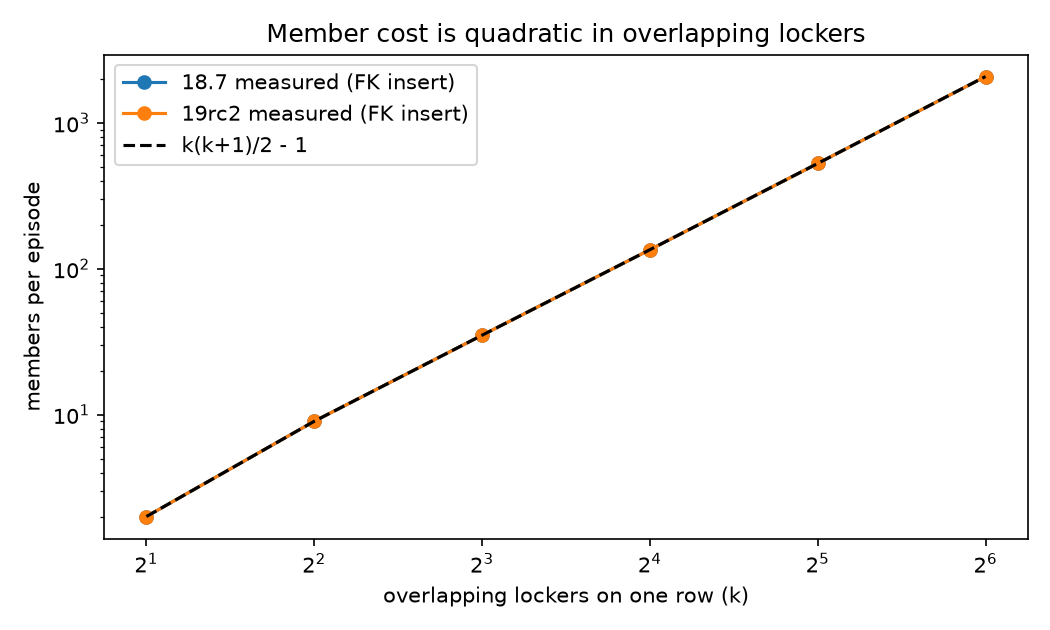
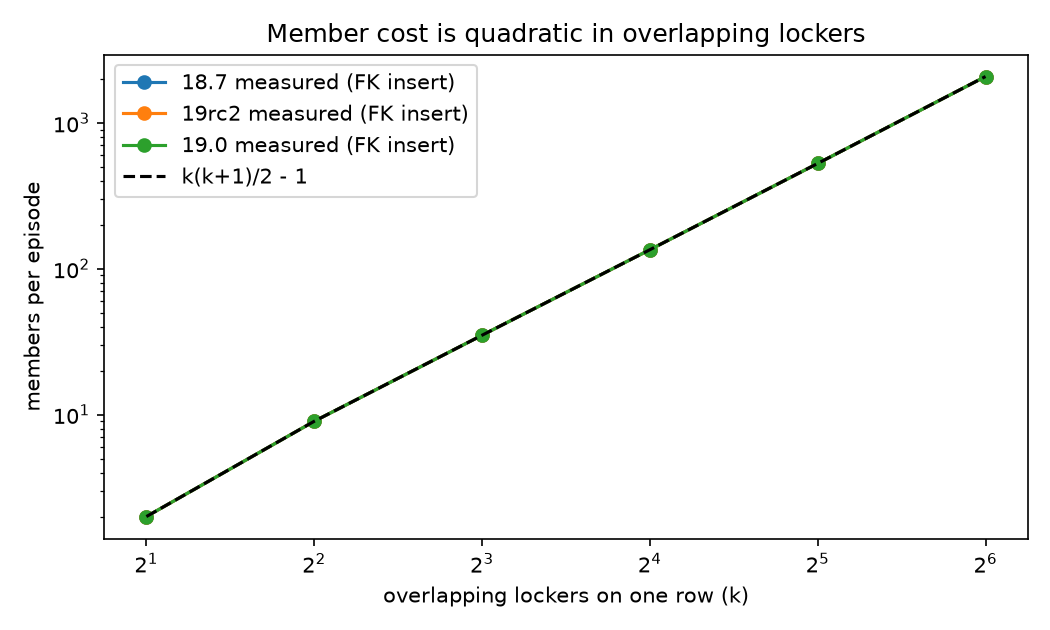
PostgreSQL 19.0 GA rerun: G1, R, L, U on 19.0 (matches 19 RC2), flagged + rerun paused R cells, bzip2-less extraction fallback, README names 19.0 as main version

diff --git a/scripts/analyze.py b/scripts/analyze.py
@@ -13,7 +13,7 @@ if g1:
         rs = g[k]; out.append(f"| {k[0]} | {k[1]} | {k[2]} | {sorted({r['d_multi'] for r in rs})} | {sorted({r['d_members'] for r in rs})} | {rs[0]['expect_members']} | {rs[0]['members_bytes']} | {rs[0]['offsets_bytes']} |")
     fig, ax = plt.subplots(figsize=(7,4.2))
     ks = [2,4,8,16,32,64]
-    for v, m in [("18.7","fk_insert"),("19rc2","fk_insert")]:
+    for v, m in [(v, "fk_insert") for v in ["18.7","19rc2","19.0"] if (v,"fk_insert",2) in g]:
         ax.plot(ks, [st.median(r["d_members"]/r["episodes"] for r in g[(v,m,k)]) for k in ks], "o-", label=f"{v} measured (FK insert)")
     ax.plot(ks, [k*(k+1)/2-1 for k in ks], "k--", label="k(k+1)/2 - 1")
     ax.set_xscale("log", base=2); ax.set_yscale("log"); ax.set_xlabel("overlapping lockers on one row (k)"); ax.set_ylabel("members per episode")
@@ -39,7 +39,22 @@ if rr:
     for k in sorted(g):
         rs = g[k]; f = lambda s, key: sorted({(r[s][key]//1024 if key=="members_bytes" else r[s][key]) for r in rs if s in r})
         out.append(f"| {k[0]} | {k[1]} | {f('peak','members_bytes')} | {f('after','members_bytes')} | {f('after','oldest_multi')} | {sorted({r['after']['datminmxid']['template0'] for r in rs})} | {f('released','members_bytes')} | {f('released','oldest_multi')} |")
-for name in ["l_limit.jsonl", "x_crossdb.jsonl", "m_mitig.jsonl"]:
+ll = L("l_limit.jsonl")
+if ll:
+    out.append("\n## L members limit (fast-forward to 4,274,017,280; k=64)\n| cell | outcome | members after ff | next offset | members-warnings | writes back after unpin (s) |\n|---|---|---|---|---|---|")
+    for r in ll:
+        evs = {e["ev"]: e for e in r["events"]}
+        oc = "ERROR members limit" if "error" in evs else ("no error" if "no_error" in evs else "?")
+        wb = evs["autovac_wait"]["secs"] if "autovac_wait" in evs else ""
+        out.append(f"| {r['cell']} | {oc} | {r['members_after_ff']} | {r['end']['next_offset']} | {r['log_members_warn_count']} | {wb} |")
+for uf, label in [("u_upgrade.jsonl", "18.7 -> 19rc2"), ("u_upgrade_19_0.jsonl", "18.7 -> 19.0")]:
+    uu = L(uf)
+    if uu:
+        out.append(f"\n## U pg_upgrade {label} (k=64)\n| cell | rc | secs | members before | members after | members bytes before | after | offsets bytes before | after | rows |\n|---|---|---|---|---|---|---|---|---|---|")
+        for r in uu:
+            o, n = r.get("old", {}), r.get("new", {})
+            out.append(f"| {r['cell']} | {r['upgrade_rc']} | {r['upgrade_secs']:.2f} | {o.get('next_offset',0)-1} | {n.get('next_offset',0)-1} | {o.get('members_bytes')} | {n.get('members_bytes')} | {o.get('offsets_bytes')} | {n.get('offsets_bytes')} | {r.get('rows')} |")
+for name in ["x_crossdb.jsonl", "m_mitig.jsonl"]:
     rows = L(name)
     if rows: out.append(f"\n## {name}: {len(rows)} records (see analyze section)")
 open(os.path.join(R, "summary.md"), "w").write("\n".join(out) + "\n"); print("\n".join(out))
@@ -50,12 +65,13 @@ rr = L("r_reclaim.jsonl")
 if rr:
     arms = ["none","vacuum_plain_app","vacuum_freeze_app","vacuumdb_all_freeze","vacuumdb_all_freeze_blocked","autovac","autovac_blocked"]
     labels = ["nothing","VACUUM","VACUUM (FREEZE)","vacuumdb --all\n--freeze","vacuumdb + idle\nlocker","autovacuum","autovacuum +\nidle locker"]
-    fig, ax = plt.subplots(figsize=(9,4.2)); w = 0.38
-    for i, v in enumerate(["18.7","19rc2"]):
+    VS = [v for v in ["18.7","19rc2","19.0"] if any(r["v"]==v for r in rr)]
+    fig, ax = plt.subplots(figsize=(9,4.2)); w = 0.8/len(VS)
+    for i, v in enumerate(VS):
         vals = [st.median(r["after"]["members_bytes"]/1e6 for r in rr if r["arm"]==a and r["v"]==v) for a in arms]
-        ax.bar(np.arange(len(arms)) + (i-0.5)*w, vals, w, label=v)
+        ax.bar(np.arange(len(arms)) + (i-(len(VS)-1)/2)*w, vals, w, label=v)
     ax.set_xticks(range(len(arms))); ax.set_xticklabels(labels, fontsize=8); ax.set_ylabel("pg_multixact/members after (MB, 10^6 B)")
-    ax.set_title("Only autovacuum kept member space small; nothing freed it while a locker was idle"); ax.legend(); fig.tight_layout(); fig.savefig(f"{C}/r_reclaim.png", dpi=150)
+    ax.set_title("Only autovacuum kept member space small; nothing freed it while a locker was idle"); ax.set_ylim(0, 13); ax.legend(loc="upper center", ncol=len(VS)); fig.tight_layout(); fig.savefig(f"{C}/r_reclaim.png", dpi=150)
 xd = L("x_crossdb.jsonl")
 if xd:
     arms = ["control","other_db_locker","other_db_xid_only","other_db_rr_snapshot","other_db_locker_iits10s"]
@@ -82,3 +98,11 @@ if mm:
             rs = [r for r in mm if r["arm"]==a and r["v"]==v]; m = [r["members_per_row"] for r in rs]
             out2.append(f"| {a} | {v} | {st.median(m):.2f} [{min(m):.2f}-{max(m):.2f}] | {round(st.median(r['rows_per_s'] for r in rs))} | {round(st.median(r['members_per_s'] for r in rs))} |")
     open(os.path.join(R, "summary.md"), "a").write("\n".join(out2) + "\n")
+rr19 = L("controls/r19_rerun.jsonl")
+if rr19:
+    n = ["\n## Notes on 19.0 R cells",
+         "- r-19.0-autovac-r3 and r-19.0-autovac_blocked-r1: poll trace has a 462 s / 425 s gap (box suspended mid-poll). Kept in r_reclaim.jsonl, flagged; end states match siblings.",
+         "- Reruns (results/controls/r19_rerun.jsonl, max poll gap 2.1 s):"]
+    for r in rr19:
+        n.append(f"  - {r['cell']}: after members_bytes {r['after']['members_bytes']}, oldestMultiXid {r['after']['oldest_multi']}, released {r.get('released', {}).get('members_bytes', '-')}, wait {r.get('wait_secs', 0):.1f} s")
+    open(os.path.join(R, "summary.md"), "a").write("\n".join(n) + "\n")

diff --git a/scripts/rerun_r19.py b/scripts/rerun_r19.py
@@ -1,0 +1,18 @@
+"""Rerun of the two 19.0 reclamation cells whose poll trace had a box-suspension gap
+(r-19.0-autovac-r3: 462 s gap; r-19.0-autovac_blocked-r1: 425 s gap). Original lines are kept
+in results/r_reclaim.jsonl and flagged; reruns go to results/controls/r19_rerun.jsonl."""
+import sys, json, os, time
+sys.argv = [sys.argv[0], "19.0"]
+sys.path.insert(0, os.path.dirname(os.path.abspath(__file__)))
+import grid_reclaim as g
+from lab import ROOT
+OUT = os.path.join(ROOT, "results", "controls", "r19_rerun.jsonl")
+for arm, rep in [("autovac", 3), ("autovac_blocked", 1)]:
+    up0 = float(open("/proc/uptime").read().split()[0]); t0 = time.time()
+    rec = g.run_cell("19.0", arm, rep, -1)
+    up1 = float(open("/proc/uptime").read().split()[0]); wall = time.time() - t0
+    rec["cell"] += "-rerun"; rec["wall_secs"] = wall; rec["uptime_secs"] = up1 - up0
+    tr = rec.get("trace", []) + rec.get("release_trace", [])
+    rec["max_poll_gap"] = max([b["dt"] - a["dt"] for a, b in zip(tr, tr[1:])] or [0])
+    open(OUT, "a").write(json.dumps(rec) + "\n")
+    print(rec["cell"], rec["after"]["oldest_multi"], rec["after"]["members_bytes"], rec.get("released", {}).get("members_bytes"), round(rec.get("wait_secs", 0), 1), round(rec.get("release_wait_secs", 0) or 0, 1), "maxgap", rec["max_poll_gap"], flush=True)

diff --git a/README.md b/README.md
@@ -1,8 +1,10 @@
 # pg-multixact-lab
 
 Reproducible lab for **PostgreSQL MultiXact member space**: how fast it grows under shared row locks,
-what does and does not reclaim it, and what changes between **PostgreSQL 18.7** and **19 RC2**
+what does and does not reclaim it, and what changes between **PostgreSQL 18.7** and **PostgreSQL 19.0**
 (64-bit member offsets, `pg_get_multixact_stats()`, `pg_upgrade` rewrite of `pg_multixact`).
+19.0 is the main version: it was built from the GA tarball on release day (2026-11-19) and reran G1, R, L and U.
+**19 RC2** ran every grid and is the cross-check; 19.0 reproduced every RC2 count it reran exactly.
 
 Motivation: the [Metronome RCA (May 2025)](https://metronome.com/blog/root-cause-analysis-postgresql-multixact-member-exhaustion-incidents-may-2025),
 where an Aurora PostgreSQL 13.18 cluster ran out of member space while far below its MultiXact ID threshold.
@@ -13,14 +15,14 @@ All numbers come from one VM. Design, seeds, deviations and the full run log are
 
 | grid | script | question | runs |
 |---|---|---|---|
-| G1 | `grid_growth.py g1` | members per episode vs overlapping lockers k (theory: k-1 MultiXacts, k(k+1)/2-1 members) | 72 |
+| G1 | `grid_growth.py g1` | members per episode vs overlapping lockers k (theory: k-1 MultiXacts, k(k+1)/2-1 members) | 72 + 36 on 19.0 |
 | G2 | `grid_growth.py g2` | members per committed FK insert under pgbench concurrency (clients x hot rows x pause in txn) | 72 |
-| R | `grid_reclaim.py` | what frees member space: VACUUM, VACUUM FREEZE, vacuumdb --all --freeze, autovacuum, with/without an idle locker | 42 |
-| L | `limit_ff.py` | 18.7 vs 19 RC2 at the 2^32 member-offset stop (fast-forwarded, see below) | 6 |
+| R | `grid_reclaim.py` | what frees member space: VACUUM, VACUUM FREEZE, vacuumdb --all --freeze, autovacuum, with/without an idle locker | 42 + 21 on 19.0 |
+| L | `limit_ff.py` | 18.7 vs 19 at the 2^32 member-offset stop (fast-forwarded, see below) | 6 + 3 on 19.0 |
 | X | `grid_crossdb.py` | does a session in ANOTHER database pin reclamation (row lock, xid only, RR snapshot, timeout) | 30 |
 | M | `grid_mitig.py` | mitigations: pool cap, no pause, batching, spreading hot keys | 30 |
-| U | `upgrade_rewrite.py` | `pg_upgrade --link` 18.7 -> 19 RC2: member compaction and timing | 9 |
-| controls | `controls.py` | 18->18 and empty upgrade baselines, amcheck after upgrade, undistorted limit test, fsync-on G2 subset, rerun of a void cell | 21 |
+| U | `upgrade_rewrite.py` | `pg_upgrade --link` 18.7 -> 19 RC2 and 18.7 -> 19.0: member compaction and timing | 9 + 3 on 19.0 |
+| controls | `controls.py` | 18->18 and empty upgrade baselines, amcheck after upgrade, undistorted limit test, fsync-on G2 subset, rerun of a void cell, rerun of 2 suspended 19.0 R cells | 23 |
 
 Results summary: [results/summary.md](results/summary.md). Charts: [charts/](charts/).
 
@@ -32,17 +34,19 @@ No Docker, no root. PostgreSQL built from official tarballs, sha256 verified aga
 |---|---|
[3 lines of base64/hex data omitted]
 
 ```sh
 scripts/build_pg.sh 18.7      # -> install/pg-18.7
+scripts/build_pg.sh 19.0      # -> install/pg-19.0
 scripts/build_pg.sh 19rc2     # -> install/pg-19rc2
 # configure --without-readline --without-zlib --without-icu --without-zstd --without-lz4
 # make world-bin && make install-world-bin   (includes contrib/amcheck)
 ```
 
 The study box had no m4/make/bison/flex; they were built from GNU/flex tarballs with GPG signatures checked
-([provenance/](provenance/)). PostgreSQL 19.0 was tagged (`REL_19_0`) but not yet released as a tarball when
-these runs were made; `scripts/run_19_0.sh` builds 19.0 and reruns a subset once it is on ftp.postgresql.org.
+([provenance/](provenance/)). `scripts/run_19_0.sh` downloads, verifies and builds 19.0 and reruns G1, R, L and U on it.
+If the `bzip2` binary is missing, both build scripts extract the tarball with Python's bz2 module instead.
 
 Python 3 venv in `install/venv`:
 
@@ -67,11 +71,24 @@ $P scripts/limit_ff.py 18.7,19rc2 3              # L    (fixed order)
 $P scripts/grid_crossdb.py 18.7,19rc2 3          # X    (seed 20261131)
 $P scripts/grid_mitig.py 18.7,19rc2              # M    (seed 20261141)
 $P scripts/upgrade_rewrite.py                    # U    (env: NEWV=19rc2 UOUT=u_upgrade.jsonl USIZES=1000,10000,30000 UREPS=3)
+scripts/run_19_0.sh                              # 19.0: build + G1, R, L, U (U: NEWV=19.0 UOUT=u_upgrade_19_0.jsonl USIZES=10000)
+$P scripts/rerun_r19.py                          # reruns 2 R cells on 19.0 that were hit by a VM pause
 $P scripts/controls.py uc1 uc0 uc2 lc1 g2r g2f   # controls (G2-F seed 20261151; load gate)
 $P scripts/analyze.py                            # results/summary.md + charts/
 ```
 
 `chain2.sh`, `chain3.sh`, `chain_controls.sh` are the detached chains used in the study (they also call `backup.sh`).
+
+## 19.0 vs 19 RC2 at a glance
+
+| test | 19.0 | 19 RC2 |
+|---|---|---|
+| G1 k=64, 1,000 episodes | 63,000 MultiXacts, 2,079,000 members, members 10,412,032 B, offsets 507,904 B | identical |
+| R (k=32 x 4,000) | VACUUM / VACUUM (FREEZE) / vacuumdb --all --freeze: 10.6 MB left, oldestMultiXid 1; autovacuum: 0.86 MB | identical |
+| L members limit | no error, next offset 4,319,755,280 (past 2^32), 3/3 | identical (18.7: ERROR after 20,897,624 members) |
+| U 18.7 -> 19, 10,000 episodes | 20,790,000 -> 630,000 members, 104 MB -> 3.2 MB, 1.86-1.97 s | same counts and bytes, 1.67-1.77 s |
+
+The upgrade and limit-test wall times differ; those runs were not load-gated on a shared box, so they are not a version comparison.
 
 ## Box and caveats
 
@@ -88,6 +105,8 @@ $P scripts/analyze.py                            # results/summary.md + charts/
   dropped table) and is the evidence for vacuum behaviour under a pin.
 - **Load/suspension rule:** applied to the control runs only (load1 < 2 before each run, void + rerun if wall clock and uptime
   differ by > 5%). One earlier G2 cell is void; see `results/void_cells.json`.
+- **VM pauses:** the box is paused when idle. Two 19.0 R cells had a pause inside their poll window; they are flagged in
+  `results/void_cells.json` and rerun in `results/controls/r19_rerun.jsonl` (same outcome).
 - **VM reset:** the box was reset once during the study; `r_reclaim.jsonl` was restored from a checksummed backup taken
   before the reset and one limit attempt was discarded. Timeline in PROTOCOL.md.
 - **Redaction:** absolute paths in results are replaced by `$LAB` and the host name by `<host>`. Nothing else was changed.
@@ -97,7 +116,8 @@ $P scripts/analyze.py                            # results/summary.md + charts/
 ```
 results/
   g1_hotrow.jsonl g2_churn.jsonl r_reclaim.jsonl l_limit.jsonl x_crossdb.jsonl m_mitig.jsonl u_upgrade.jsonl
-  controls/       uc0 uc1 uc2 lc1 g2r g2f .jsonl
+  u_upgrade_19_0.jsonl   18.7 -> 19.0 upgrade runs
+  controls/       uc0 uc1 uc2 lc1 g2r g2f r19_rerun .jsonl
   discarded/      l_limit_attempt1.jsonl (not used)
   void_cells.json void / flagged cells and invalid fields
   env_g1.json env_g2.json   uname, CPU count, memory at run time

diff --git a/results/summary.md b/results/summary.md
@@ -13,6 +13,18 @@
 | 18.7 | for_share | 16 | [15000] | [135001] | 135000 | 679936 | 65536 |
 | 18.7 | for_share | 32 | [31000] | [527001] | 527000 | 2646016 | 131072 |
 | 18.7 | for_share | 64 | [63000] | [2079001] | 2079000 | 10412032 | 253952 |
+| 19.0 | fk_insert | 2 | [1000] | [2000] | 2000 | 16384 | 8192 |
+| 19.0 | fk_insert | 4 | [3000] | [9000] | 9000 | 49152 | 24576 |
+| 19.0 | fk_insert | 8 | [7000] | [35000] | 35000 | 180224 | 57344 |
+| 19.0 | fk_insert | 16 | [15000] | [135000] | 135000 | 679936 | 122880 |
+| 19.0 | fk_insert | 32 | [31000] | [527000] | 527000 | 2646016 | 253952 |
+| 19.0 | fk_insert | 64 | [63000] | [2079000] | 2079000 | 10412032 | 507904 |
+| 19.0 | for_share | 2 | [1000] | [2000] | 2000 | 16384 | 8192 |
+| 19.0 | for_share | 4 | [3000] | [9000] | 9000 | 49152 | 24576 |
+| 19.0 | for_share | 8 | [7000] | [35000] | 35000 | 180224 | 57344 |
+| 19.0 | for_share | 16 | [15000] | [135000] | 135000 | 679936 | 122880 |
+| 19.0 | for_share | 32 | [31000] | [527000] | 527000 | 2646016 | 253952 |
+| 19.0 | for_share | 64 | [63000] | [2079000] | 2079000 | 10412032 | 507904 |
 | 19rc2 | fk_insert | 2 | [1000] | [2000] | 2000 | 16384 | 8192 |
 | 19rc2 | fk_insert | 4 | [3000] | [9000] | 9000 | 49152 | 24576 |
 | 19rc2 | fk_insert | 8 | [7000] | [35000] | 35000 | 180224 | 57344 |
@@ -58,21 +70,59 @@
 | arm | v | peak KiB | after KiB | oldest after | template0 datminmxid after | released KiB | oldest released |
 |---|---|---|---|---|---|---|---|
 | autovac | 18.7 | [840, 1096, 1352] | [840] | [114391, 115073, 116282] | [114391, 115073, 116282] | [] | [] |
+| autovac | 19.0 | [840, 1096] | [840] | [114701, 115817, 115941] | [115941, 118204, 119661] | [] | [] |
 | autovac | 19rc2 | [1096, 1608] | [840] | [114639, 115693, 115817] | [114639, 124001] | [] | [] |
 | autovac_blocked | 18.7 | [10312] | [10312] | [1] | [1] | [72] | [124001] |
+| autovac_blocked | 19.0 | [10312] | [10312] | [1] | [1] | [72] | [124001] |
 | autovac_blocked | 19rc2 | [10312] | [10312] | [1] | [1] | [72] | [124001] |
 | none | 18.7 | [10312] | [10312] | [1] | [1] | [] | [] |
+| none | 19.0 | [10312] | [10312] | [1] | [1] | [] | [] |
 | none | 19rc2 | [10312] | [10312] | [1] | [1] | [] | [] |
 | vacuum_freeze_app | 18.7 | [10312] | [10312] | [1] | [1] | [] | [] |
+| vacuum_freeze_app | 19.0 | [10312] | [10312] | [1] | [1] | [] | [] |
 | vacuum_freeze_app | 19rc2 | [10312] | [10312] | [1] | [1] | [] | [] |
 | vacuum_plain_app | 18.7 | [10312] | [10312] | [1] | [1] | [] | [] |
+| vacuum_plain_app | 19.0 | [10312] | [10312] | [1] | [1] | [] | [] |
 | vacuum_plain_app | 19rc2 | [10312] | [10312] | [1] | [1] | [] | [] |
 | vacuumdb_all_freeze | 18.7 | [10312] | [10312] | [1] | [1] | [] | [] |
+| vacuumdb_all_freeze | 19.0 | [10312] | [10312] | [1] | [1] | [] | [] |
 | vacuumdb_all_freeze | 19rc2 | [10312] | [10312] | [1] | [1] | [] | [] |
 | vacuumdb_all_freeze_blocked | 18.7 | [10312] | [10312] | [1] | [1] | [10312] | [1] |
+| vacuumdb_all_freeze_blocked | 19.0 | [10312] | [10312] | [1] | [1] | [10312] | [1] |
 | vacuumdb_all_freeze_blocked | 19rc2 | [10312] | [10312] | [1] | [1] | [10312] | [1] |
 
-## l_limit.jsonl: 6 records (see analyze section)
+## L members limit (fast-forward to 4,274,017,280; k=64)
+| cell | outcome | members after ff | next offset | members-warnings | writes back after unpin (s) |
+|---|---|---|---|---|---|
+| l-18.7-r1 | ERROR members limit | 20897624 | 4294914904 | 31729 | 15.3 |
+| l-19rc2-r1 | no error | 45738000 | 4319755280 | 0 |  |
+| l-18.7-r2 | ERROR members limit | 20897624 | 4294914904 | 31729 | 12.2 |
+| l-19rc2-r2 | no error | 45738000 | 4319755280 | 0 |  |
+| l-18.7-r3 | ERROR members limit | 20897624 | 4294914904 | 31729 | 15.3 |
+| l-19rc2-r3 | no error | 45738000 | 4319755280 | 0 |  |
+| l-19.0-r1 | no error | 45738000 | 4319755280 | 0 |  |
+| l-19.0-r2 | no error | 45738000 | 4319755280 | 0 |  |
+| l-19.0-r3 | no error | 45738000 | 4319755280 | 0 |  |
+
+## U pg_upgrade 18.7 -> 19rc2 (k=64)
+| cell | rc | secs | members before | members after | members bytes before | after | offsets bytes before | after | rows |
+|---|---|---|---|---|---|---|---|---|---|
+| u-E1000-r1 | 0 | 1.66 | 2079000 | 63000 | 10412032 | 319488 | 253952 | 507904 | [1010, 0] |
+| u-E10000-r1 | 0 | 1.77 | 20790000 | 630000 | 104103936 | 3162112 | 2523136 | 5046272 | [10010, 0] |
+| u-E30000-r1 | 0 | 2.01 | 62370000 | 1890000 | 312311808 | 9469952 | 7561216 | 15122432 | [30010, 0] |
+| u-E1000-r2 | 0 | 1.62 | 2079000 | 63000 | 10412032 | 319488 | 253952 | 507904 | [1010, 0] |
+| u-E10000-r2 | 0 | 1.70 | 20790000 | 630000 | 104103936 | 3162112 | 2523136 | 5046272 | [10010, 0] |
+| u-E30000-r2 | 0 | 1.95 | 62370000 | 1890000 | 312311808 | 9469952 | 7561216 | 15122432 | [30010, 0] |
+| u-E1000-r3 | 0 | 1.62 | 2079000 | 63000 | 10412032 | 319488 | 253952 | 507904 | [1010, 0] |
+| u-E10000-r3 | 0 | 1.67 | 20790000 | 630000 | 104103936 | 3162112 | 2523136 | 5046272 | [10010, 0] |
+| u-E30000-r3 | 0 | 1.95 | 62370000 | 1890000 | 312311808 | 9469952 | 7561216 | 15122432 | [30010, 0] |
+
+## U pg_upgrade 18.7 -> 19.0 (k=64)
+| cell | rc | secs | members before | members after | members bytes before | after | offsets bytes before | after | rows |
+|---|---|---|---|---|---|---|---|---|---|
+| u-E10000-r1 | 0 | 1.86 | 20790000 | 630000 | 104103936 | 3162112 | 2523136 | 5046272 | [10010, 0] |
+| u-E10000-r2 | 0 | 1.97 | 20790000 | 630000 | 104103936 | 3162112 | 2523136 | 5046272 | [10010, 0] |
+| u-E10000-r3 | 0 | 1.97 | 20790000 | 630000 | 104103936 | 3162112 | 2523136 | 5046272 | [10010, 0] |
 
 ## x_crossdb.jsonl: 30 records (see analyze section)
 
@@ -91,3 +141,9 @@
 | batch10 | 19rc2 | 6.17 [6.17-6.17] | 120235 | 742350 |
 | spread16 | 18.7 | 4.62 [4.45-4.67] | 12032 | 55693 |
 | spread16 | 19rc2 | 4.66 [4.54-4.71] | 12159 | 56613 |
+
+## Notes on 19.0 R cells
+- r-19.0-autovac-r3 and r-19.0-autovac_blocked-r1: poll trace has a 462 s / 425 s gap (box suspended mid-poll). Kept in r_reclaim.jsonl, flagged; end states match siblings.
+- Reruns (results/controls/r19_rerun.jsonl, max poll gap 2.1 s):
+  - r-19.0-autovac-r3-rerun: after members_bytes 860160, oldestMultiXid 116499, released -, wait 180.4 s
+  - r-19.0-autovac_blocked-r1-rerun: after members_bytes 10559488, oldestMultiXid 1, released 73728, wait 120.3 s

diff --git a/PROTOCOL.md b/PROTOCOL.md
@@ -97,3 +97,9 @@ on-disk bytes of pg_multixact/{members,offsets}, and on 19 pg_get_multixact_stat
 ## Control results summary (2026-11-19 11:50)
 - G2-F medians (members/tx, fsync on vs off): 64/1/5 ms 18.7 58.2 vs 60.7, 19rc2 58.3 vs 60.6; 64/1/0 ms 18.7 20.8 vs 9.6, 19rc2 21.4 vs 9.5.
 - U-C1 no compaction 18->18; U-C0 baseline 1.58-1.62 s; U-C2 amcheck clean; L-C1 vacuumdb rc 0 while pinned and after unpin, writes back 6.2 s after autovacuum processed template0; G2-R 4.53 members/tx.
+
+## 19.0 GA rerun (2026-11-19, 17:36-18:41 TR)
+- 19.0 tarball from ftp.postgresql.org, sha256 a89fd70efbad6a08c7dbed8d4872e3af30170d9e5ca9dc7906523be95b4e692d (matches the published .sha256). Same configure flags; port 55490.
+- First attempt (17:35) failed before configure: the box had no `bzip2` binary after the morning reset, so `tar xjf` could not run. run_19_0.sh now falls back to Python bz2 extraction. No measurement was affected.
+- Subset rerun with the unchanged scripts: G1 (36 cells, seed 20261119), R (21 cells, seed 20261126), L (3 reps, fixed order), U 18.7 -> 19.0 (10,000 episodes x 3 reps -> results/u_upgrade_19_0.jsonl). G2, X, M and the fsync-on control were not rerun (no change in multixact.c / ri_triggers.c between RC2 and 19.0).
+- Not load-gated (same as the original grids). Two R cells (r-19.0-autovac-r3, r-19.0-autovac_blocked-r1) show a 462 s / 425 s gap inside their poll trace: the VM was paused while the agent was idle (logind watchdog aborts in dmesg at each resume; uptime advanced with wall clock, so the uptime-vs-wall rule cannot catch this kind of pause). Both kept and flagged; rerun as results/controls/r19_rerun.jsonl (scripts/rerun_r19.py, max poll gap 2.1 s), same outcomes.
